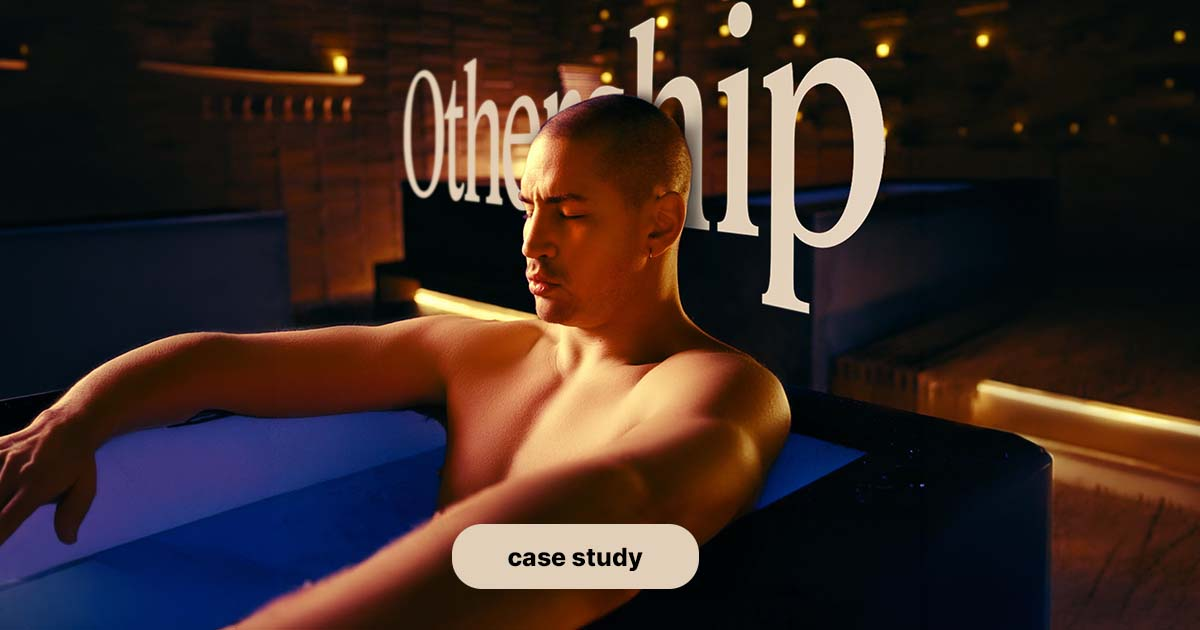
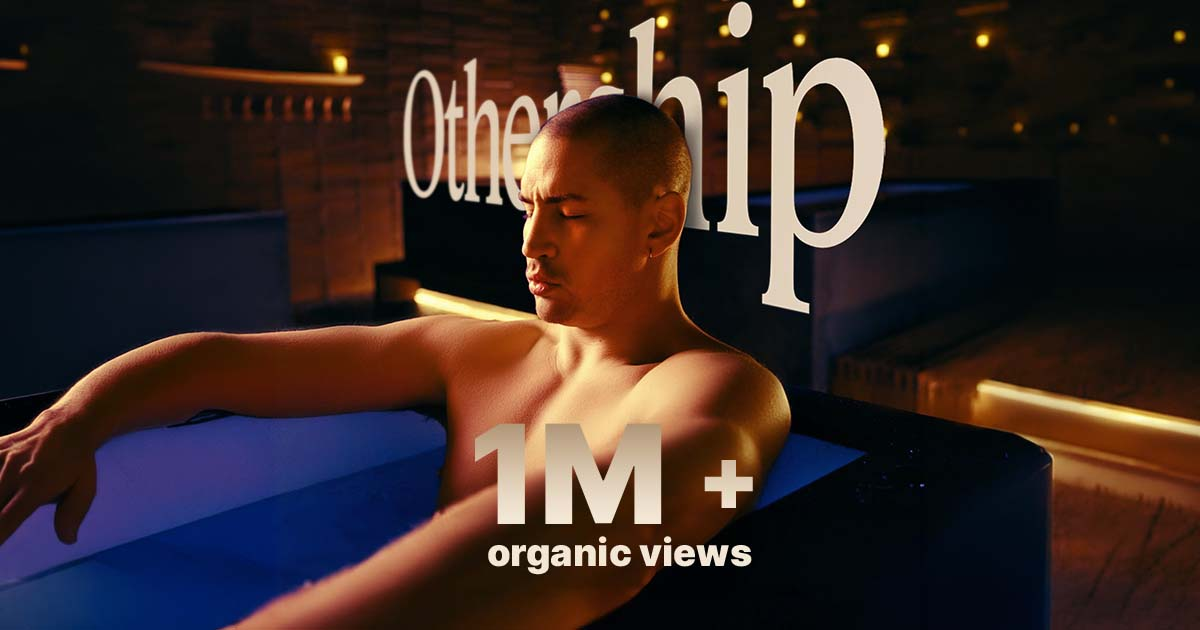
Update case study SEO meta text, preview image and add navigation refresh

Changed region(s): [[0.37, 0.6635, 0.6475, 0.9349], [0.5858, 0.7238, 0.6475, 0.8143]]

diff --git a/pages/case.vue b/pages/case.vue
@@ -3,7 +3,7 @@
     
     <nav :class="['fixed top-0 left-0 w-full z-[9999] bg-[#000000]/70 backdrop-blur-md border-b border-white/10 transition-all duration-1000 ease-out', isLoaded ? 'opacity-100 translate-y-0 blur-none' : 'opacity-0 -translate-y-4 blur-md']">
       <div class="max-w-[1024px] mx-auto px-6 h-12 flex items-center justify-between text-[12px] tracking-tight">
-        <div class="font-semibold text-[14px] tracking-normal text-white">
+        <div @click="refreshPage" class="font-semibold text-[14px] tracking-normal text-white cursor-pointer select-none active:opacity-70 transition">
           Othership Case Study <span class="text-[#8e8e93] font-light">/0027</span>
         </div>
         <div class="hidden md:flex space-x-6 text-[#f5f5f7]/80 font-normal">
@@ -356,17 +356,17 @@
 <script setup>
 import { ref, onMounted } from 'vue'
 
-// Нативная генерация мета-тегов Nuxt для раздельного превью страницы /case
+// Обновленные мета-теги страницы
 useSeoMeta({
-  title: 'Othership Case Study — Cinematic Content System',
-  ogTitle: 'Othership Case Study — Cinematic Content System',
-  description: 'How a custom cinematic content system generated over 1M organic views. Designed by Gene Perez.',
-  ogDescription: 'How a custom cinematic content system generated over 1M organic views. Designed by Gene Perez.',
+  title: 'Othership Case Study: 1M+ Organic Views',
+  ogTitle: 'Othership Case Study: 1M+ Organic Views',
+  description: 'How strategic cinematic content transformed the customer journey.',
+  ogDescription: 'How strategic cinematic content transformed the customer journey.',
   ogImage: 'https://chikireet.com/og-preview.jpg',
   ogUrl: 'https://chikireet.com/case',
   twitterCard: 'summary_large_image',
-  twitterTitle: 'Othership Case Study — Cinematic Content System',
-  twitterDescription: 'How a custom cinematic content system generated over 1M organic views.',
+  twitterTitle: 'Othership Case Study: 1M+ Organic Views',
+  twitterDescription: 'How strategic cinematic content transformed the customer journey.',
   twitterImage: 'https://chikireet.com/og-preview.jpg'
 })
 
@@ -382,6 +382,11 @@ const displayedResultsViews = ref('0')
 
 const animatedPovViews = ref(0)
 const animatedBfViews = ref(0)
+
+// Функция принудительного обновления страницы из верхнего меню
+const refreshPage = () => {
+  window.location.reload()
+}
 
 const businessTypes = ref([
   'Wellness studios',
@@ -526,6 +531,7 @@ onMounted(() => {
 </script>
 
 <style scoped>
+/* Стили остаются полностью прежними */
 @import url('https://fonts.googleapis.com/css2?family=Caveat:wght@400;500;600;700&family=Instrument+Serif:ital@0;1&family=Inter:wght@400;500;600;700&display=swap');
 
 :global(body, html, #app, .brand-hybrid-shell) {
